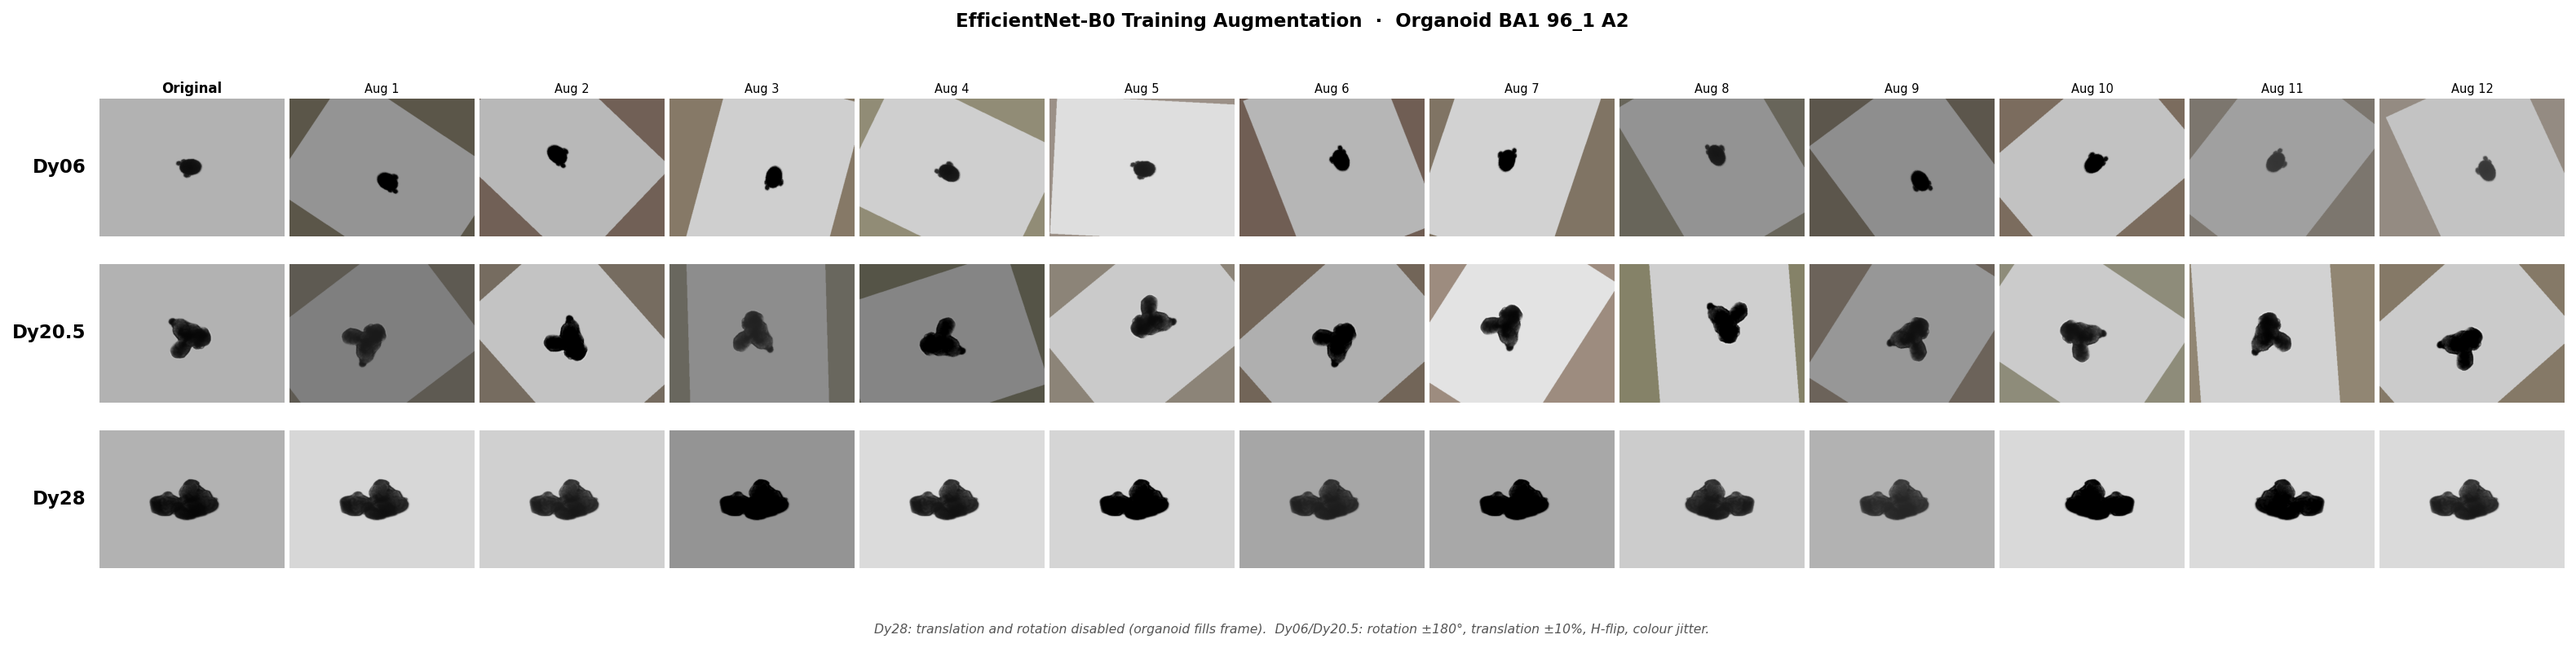
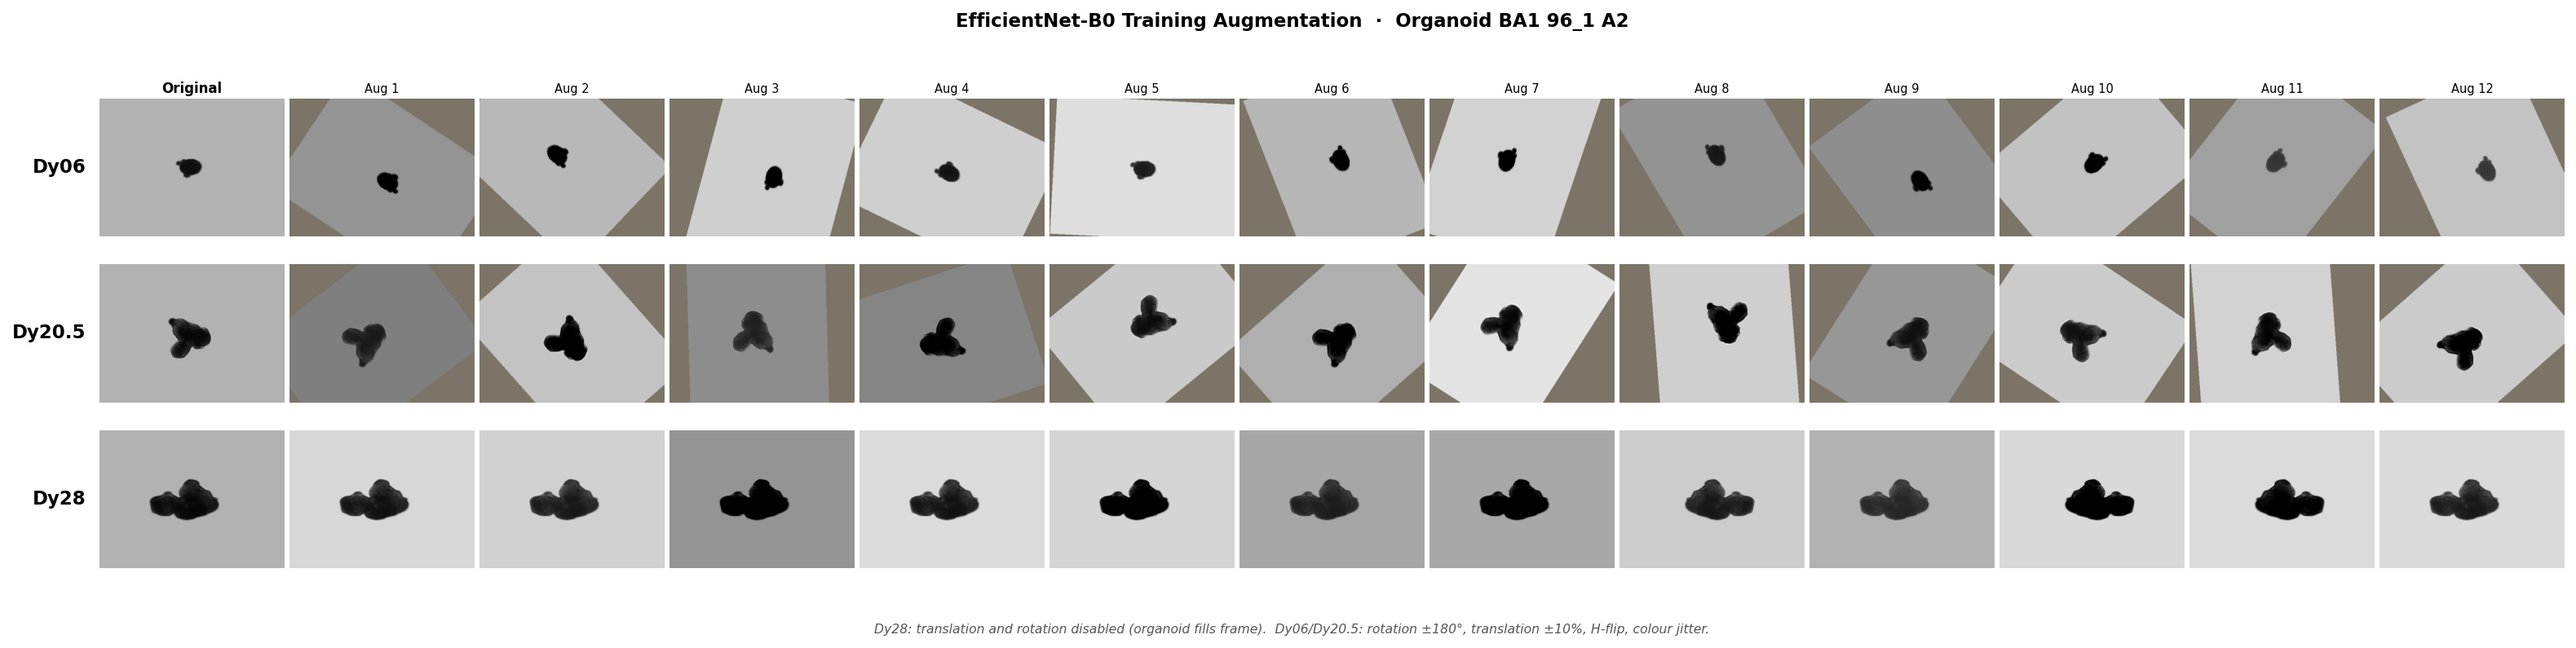
augmentation: foreground-only colour jitter + consistent background fill
Add ForegroundColorJitter to common.py: identifies background pixels (within
±2 of ImageNet mean-fill [123,116,103]) before jitter, applies ColorJitter to
the full image, then restores background pixels. This keeps both the original
mean-filled background and any affine-fill corners at a consistent intensity.

Replace T.ColorJitter with ForegroundColorJitter in perday_image_kfold.py,
combined_kfold.py, and augmentation_demo.py. Regenerate augmentation_demo.png.
Update notes/augmentation.md to document the foreground-only jitter logic.

diff --git a/analysis/paper_2026_04/common.py b/analysis/paper_2026_04/common.py
@@ -12,6 +12,7 @@ from typing import Dict, Mapping, Optional
 
 import matplotlib.pyplot as plt
 import numpy as np
+from PIL import Image
 from sklearn.metrics import (
     accuracy_score,
     balanced_accuracy_score,
@@ -19,6 +20,42 @@ from sklearn.metrics import (
     precision_recall_fscore_support,
     roc_auc_score,
 )
+
+
+# ImageNet channel means in 0-255 uint8 space, matching the mean-fill preprocessing.
+# int() truncates: [123, 116, 103].  Tolerance of ±2 covers any rounding differences
+# between our fill and the external preprocessing pipeline.
+IMAGENET_FILL_U8 = np.array([123, 116, 103], dtype=np.uint8)
+_BG_TOLERANCE = 2
+
+
+class ForegroundColorJitter:
+    """Apply torchvision ColorJitter to the organoid region only.
+
+    Background pixels (those matching the ImageNet mean-fill value within
+    _BG_TOLERANCE) are identified before jitter and restored afterwards.
+    This keeps both the original background AND any affine-fill corners at a
+    consistent intensity, so the model never sees colour-shifted background.
+
+    Must be positioned AFTER geometric transforms (Resize, RandomAffine) and
+    BEFORE ToTensor/Normalize.  Operates on PIL images.
+    """
+    def __init__(self, brightness=0.3, contrast=0.3, saturation=0.2, hue=0.05):
+        from torchvision import transforms as T
+        self._jitter = T.ColorJitter(
+            brightness=brightness, contrast=contrast,
+            saturation=saturation, hue=hue,
+        )
+
+    def __call__(self, img: Image.Image) -> Image.Image:
+        arr = np.array(img)                          # H × W × 3, uint8
+        # Background mask: all channels within tolerance of fill value
+        diff = np.abs(arr.astype(np.int16) - IMAGENET_FILL_U8.astype(np.int16))
+        bg = np.all(diff <= _BG_TOLERANCE, axis=2)  # H × W bool
+
+        jittered = np.array(self._jitter(img))
+        jittered[bg] = IMAGENET_FILL_U8              # restore background
+        return Image.fromarray(jittered)
 
 
 def compute_classification_metrics(y_true, y_pred, y_prob=None) -> dict:

diff --git a/analysis/paper_2026_04/perday_image_kfold.py b/analysis/paper_2026_04/perday_image_kfold.py
@@ -52,7 +52,11 @@ from pipeline.data_loader import (
 )
 from pipeline.splits import Splits
 
-from .common import compute_classification_metrics, plot_balanced_accuracy_by_day
+from .common import (
+    ForegroundColorJitter,
+    compute_classification_metrics,
+    plot_balanced_accuracy_by_day,
+)
 
 warnings.filterwarnings("ignore", category=UserWarning)
 os.environ.setdefault("CUBLAS_WORKSPACE_CONFIG", ":4096:8")
@@ -148,7 +152,10 @@ def _build_transforms(train: bool, translate: tuple = (0.1, 0.1), degrees: int =
         base.append(T.RandomHorizontalFlip(p=0.5))
         if degrees > 0 or translate is not None:
             base.append(T.RandomAffine(degrees=degrees, translate=translate, fill=_FILL))
-        base.append(T.ColorJitter(brightness=0.3, contrast=0.3, saturation=0.2, hue=0.05))
+        # ForegroundColorJitter: jitters organoid pixels only; background and
+        # affine-fill corners are restored to the ImageNet mean fill value.
+        base.append(ForegroundColorJitter(brightness=0.3, contrast=0.3,
+                                          saturation=0.2, hue=0.05))
     base.extend([T.ToTensor(), T.Normalize(IMAGENET_MEAN, IMAGENET_STD)])
     return T.Compose(base)
 

diff --git a/analysis/paper_2026_04/combined_kfold.py b/analysis/paper_2026_04/combined_kfold.py
@@ -52,7 +52,11 @@ from pipeline.data_loader import (
 )
 from pipeline.splits import Splits
 
-from .common import compute_classification_metrics, plot_balanced_accuracy_by_day
+from .common import (
+    ForegroundColorJitter,
+    compute_classification_metrics,
+    plot_balanced_accuracy_by_day,
+)
 
 # Import feature-extraction helpers from sibling modules
 from .metabolites_train import _features_for_day_all as _met_features_all
@@ -189,7 +193,8 @@ def _build_transforms(train: bool, translate=(0.1, 0.1), degrees=180):
         base.append(T.RandomHorizontalFlip(0.5))
         if degrees > 0 or translate is not None:
             base.append(T.RandomAffine(degrees=degrees, translate=translate, fill=_FILL))
-        base.append(T.ColorJitter(brightness=0.3, contrast=0.3, saturation=0.2, hue=0.05))
+        base.append(ForegroundColorJitter(brightness=0.3, contrast=0.3,
+                                          saturation=0.2, hue=0.05))
     base += [T.ToTensor(), T.Normalize(IMAGENET_MEAN, IMAGENET_STD)]
     return T.Compose(base)
 

diff --git a/analysis/paper_2026_04/augmentation_demo.py b/analysis/paper_2026_04/augmentation_demo.py
@@ -22,6 +22,8 @@ import numpy as np
 from PIL import Image
 from torchvision import transforms as T
 
+from .common import ForegroundColorJitter
+
 warnings.filterwarnings("ignore")
 
 IMG_HEIGHT = 384
@@ -59,7 +61,8 @@ def _aug_transform(translate=(0.1, 0.1), degrees=180):
     ]
     if degrees > 0 or translate is not None:
         base.append(T.RandomAffine(degrees=degrees, translate=translate, fill=_FILL))
-    base.append(T.ColorJitter(brightness=0.3, contrast=0.3, saturation=0.2, hue=0.05))
+    base.append(ForegroundColorJitter(brightness=0.3, contrast=0.3,
+                                      saturation=0.2, hue=0.05))
     return T.Compose(base)
 
 

diff --git a/notes/augmentation.md b/notes/augmentation.md
@@ -41,15 +41,31 @@ At **validation and test time**, only `Resize → ToTensor → Normalize` is app
 | `Resize` | 384 × 512 | Standardise spatial resolution; matches EfficientNet-B0 input expectations |
 | `RandomHorizontalFlip` | p = 0.5 | Organoids have no preferred left-right orientation |
 | `RandomAffine` | rotation ±180°, translate ±10% | Full rotation invariance; small translation simulates slight well-positioning variance |
-| `ColorJitter` | brightness ±0.3, contrast ±0.3, saturation ±0.2, hue ±0.05 | Compensates for day-to-day illumination drift and staining variability |
+| `ForegroundColorJitter` | brightness ±0.3, contrast ±0.3, saturation ±0.2, hue ±0.05 | Compensates for day-to-day illumination drift and staining variability; applied to organoid pixels only (see below) |
 
 ### Special case — boundary days
 
 Days **Dy28** and **Dy30** (`_BOUNDARY_DAYS`) disable both translation
 (`translate=None`) and rotation (`degrees=0`).  At late timepoints the organoid
 fills most of the frame; rotating or translating it risks cropping the organoid
-body and introducing artefactual edge features.  Horizontal flip and colour
-jitter are still applied.
+body and introducing artefactual edge features.  Horizontal flip and foreground
+colour jitter are still applied.
+
+### Foreground-only colour jitter
+
+`ForegroundColorJitter` (defined in `common.py`) wraps `torchvision.ColorJitter`
+and applies it only to the organoid region:
+
+1. Identify background pixels — those within ±2 of the ImageNet mean-fill value
+   [123, 116, 103] across all three channels.  This covers both the original
+   mean-filled background and any corners introduced by `RandomAffine`.
+2. Apply `ColorJitter` to the whole image.
+3. Restore all background pixels to exactly [123, 116, 103].
+
+This ensures (a) the background stays at a consistent intensity regardless of
+augmentation, and (b) affine-fill corners are not colour-shifted relative to the
+original background, so the model never sees a spurious intensity boundary at the
+edge of the augmented region.
 
 ---
 
